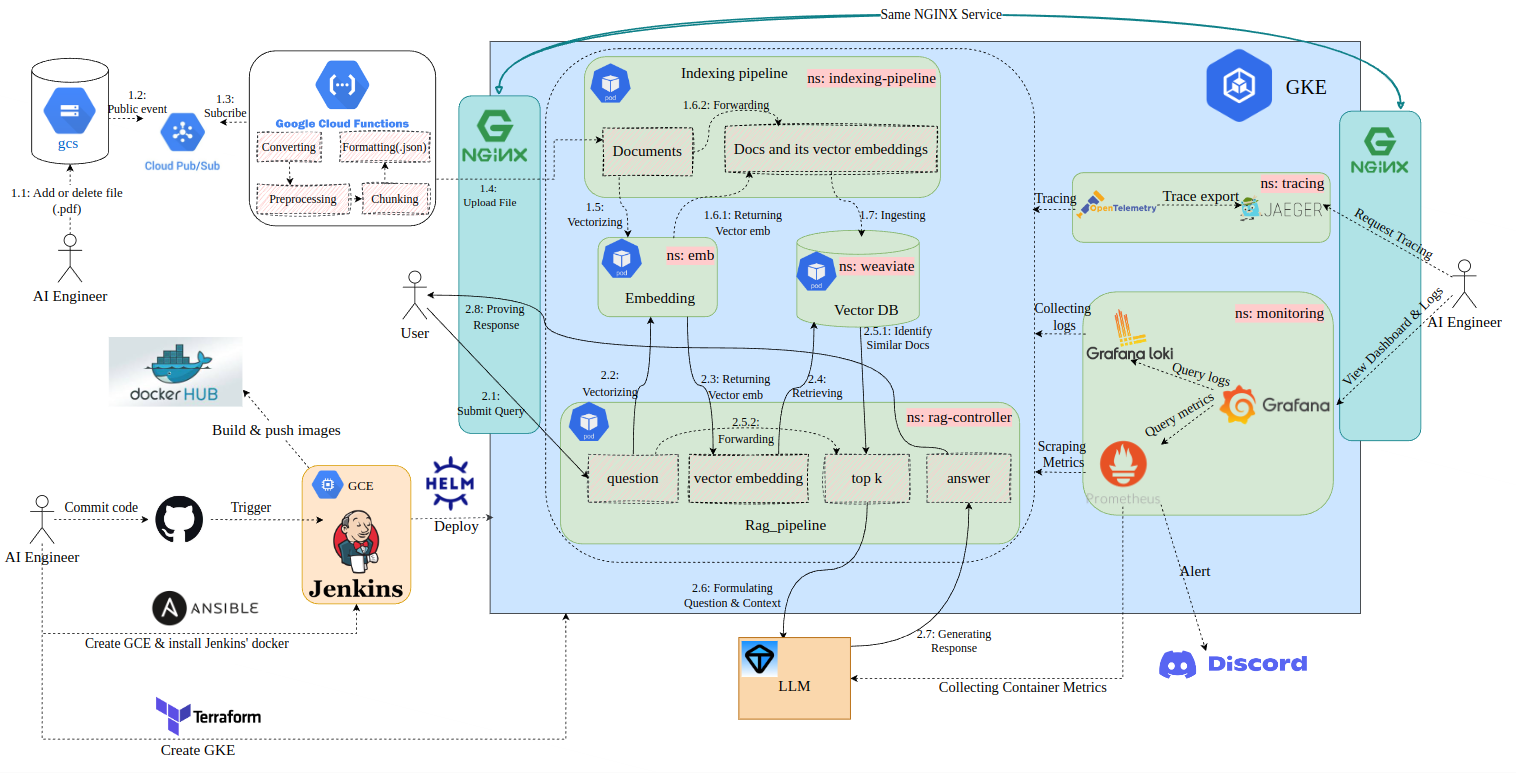
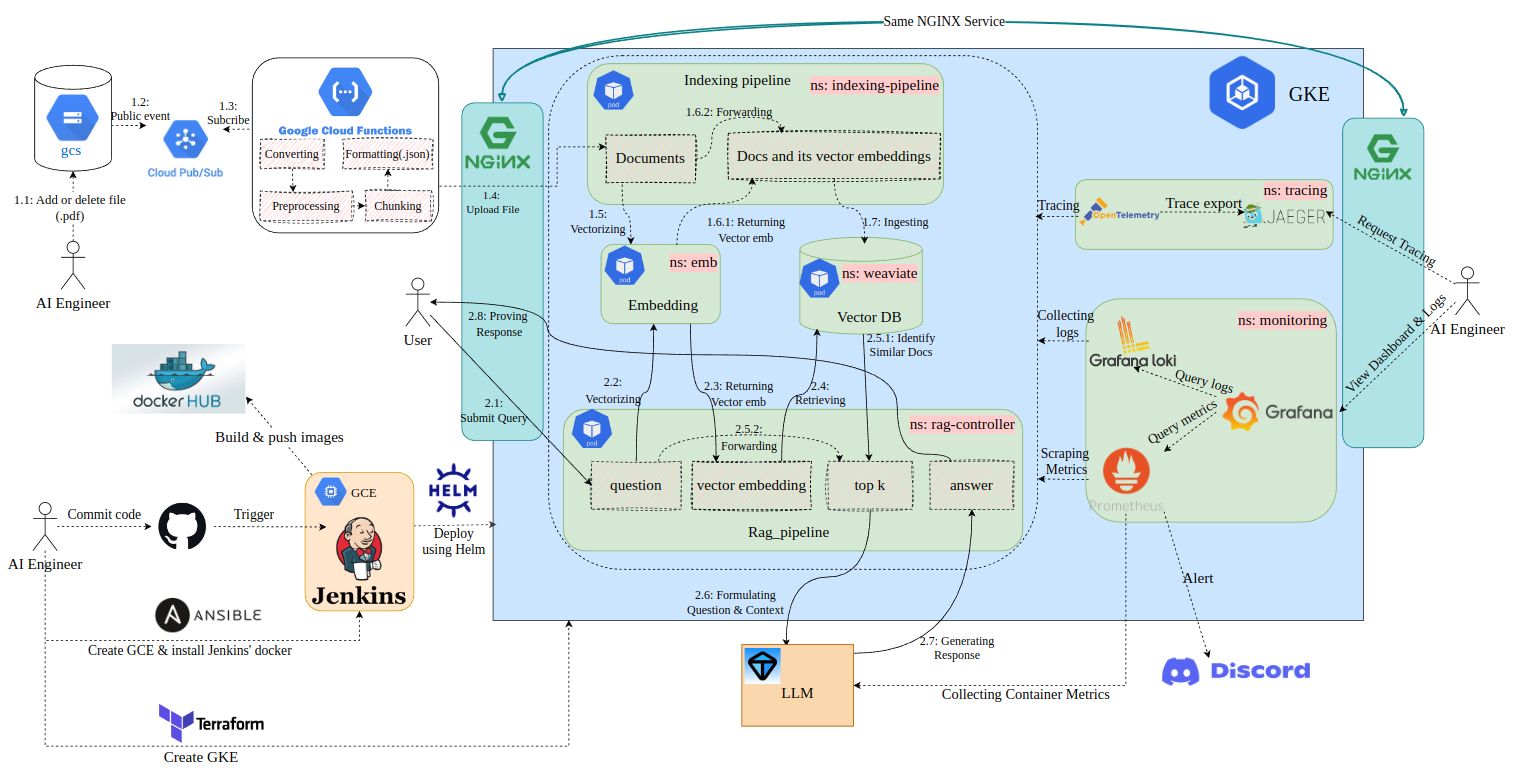
fix image Helm

Changed region(s): [[0.0, 0.0, 0.9921, 0.9004], [0.093, 0.9004, 0.186, 0.9935], [0.496, 0.9314, 0.558, 0.9625]]

diff --git a/README.md b/README.md
@@ -49,37 +49,6 @@ Retrieval-augmented generation (RAG) systems combine generative AI with informat
 * Data Source: [Government Documents (PDF)](https://congbao.chinhphu.vn/tai-ve-van-ban-so-08-vbhn-vpqh-40454-47126?format=pdf)
 
 **Project Structure**
-
-- **ansible/**: Creates GCE instances and downloads a custom Docker image for Jenkins.
-- **custom_image_jenkins/**: Custom Jenkins image that includes the Helm tool.
-- **data_pipeline/**: Set up a system to automatically handle data that is uploaded to or deleted from a GCS bucket.
-  - **.pdf**: Data to import.
-  - **main.py**: Serves as the entry point for a function or a set of functions that perform specific tasks related to data preprocessing.
-- **embedding/**: Deploys the embedding model.
-  - **helm_embedding/**: Helm chart for deploying the embedding model.
-  - **app.py**: API for the embedding model.
-  - **Dockerfile**: Dockerfile for the embedding model.
-- **image/**: Contains images displayed in `README.md`.
-- **indexing_pipeline/**: Deploys the indexing pipeline.
-  - **helm_indexing_pipeline/**: Helm chart for deploying the indexing pipeline.
-  - **main.py**: API and communication handler for the indexing pipeline.
-  - **Dockerfile**: Dockerfile for the indexing pipeline.
-- **jaeger-all-in-one/**: Helm chart for deploying Jaeger.
-- **loki/**: Helm chart for deploying Loki.
-- **nginx-ingress/**: Helm chart for deploying Nginx Ingress.
-- **prometheus1/**:
-  - **kube-prometheus-stack/**: Helm chart for deploying monitoring tools like Prometheus, Alertmanager, and Grafana.
-  - **values-prometheus.yaml**: Custom values for the `kube-prometheus-stack` chart.
-  - **tgi_dashboard.json**: Grafana dashboard to display metrics for the LLM container.
-- **rag_controller1/**: Deploys the RAG controller.
-  - **helm_rag_controller/**: Helm chart for deploying the RAG controller.
-  - **main.py**: API and communication handler for the RAG controller.
-  - **Dockerfile**: Dockerfile for the RAG controller.
-- **terraform/**: Terraform scripts for creating the GKE cluster.
-- **weaviate/**: Helm chart for deploying the Weaviate vector database.
-- **notebook.ipynb**: Jupyter notebook for testing components of the RAG system such as the embedding model, vector database, and LLM.
-- **Jenkinsfile**: Defines the CI/CD pipeline for continuous deployment of `rag_controller1`.
-
 ```txt
   ├── ansible                                            /* Creates GCE instances and downloads a custom Docker image for Jenkins */
   ├── custom_image_jenkins                               /* Custom Jenkins image that includes the Helm tool */
